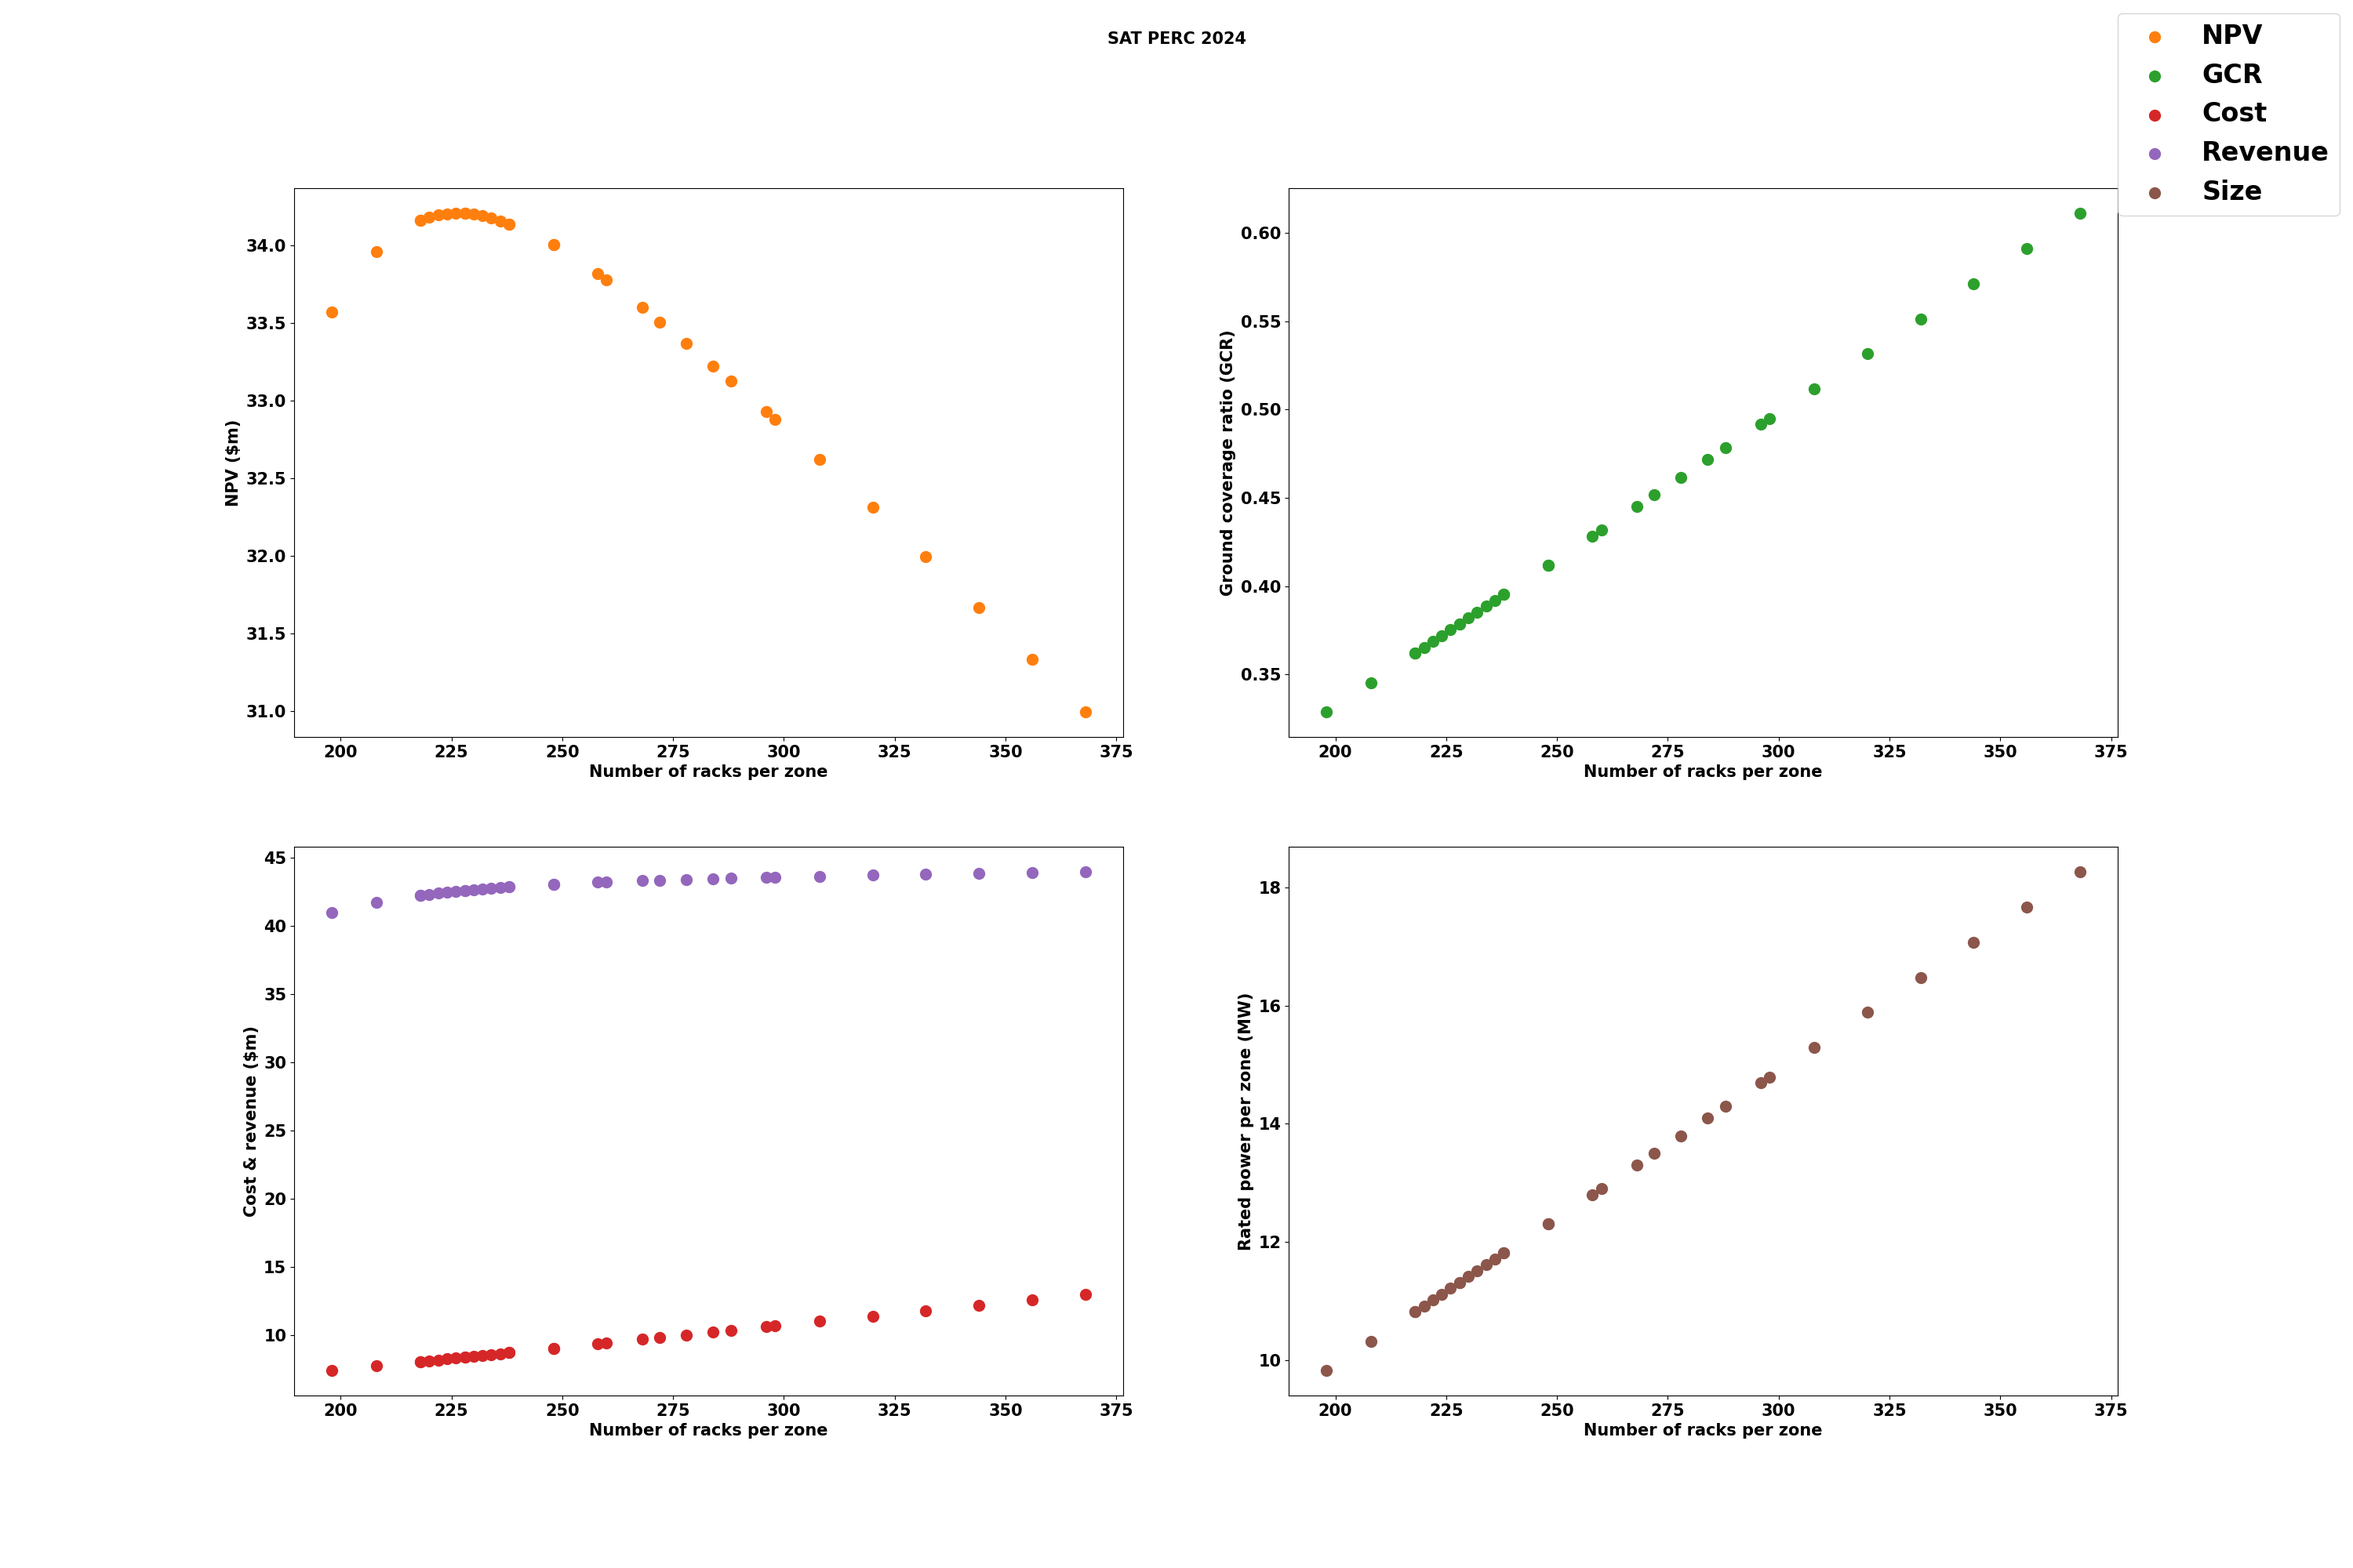
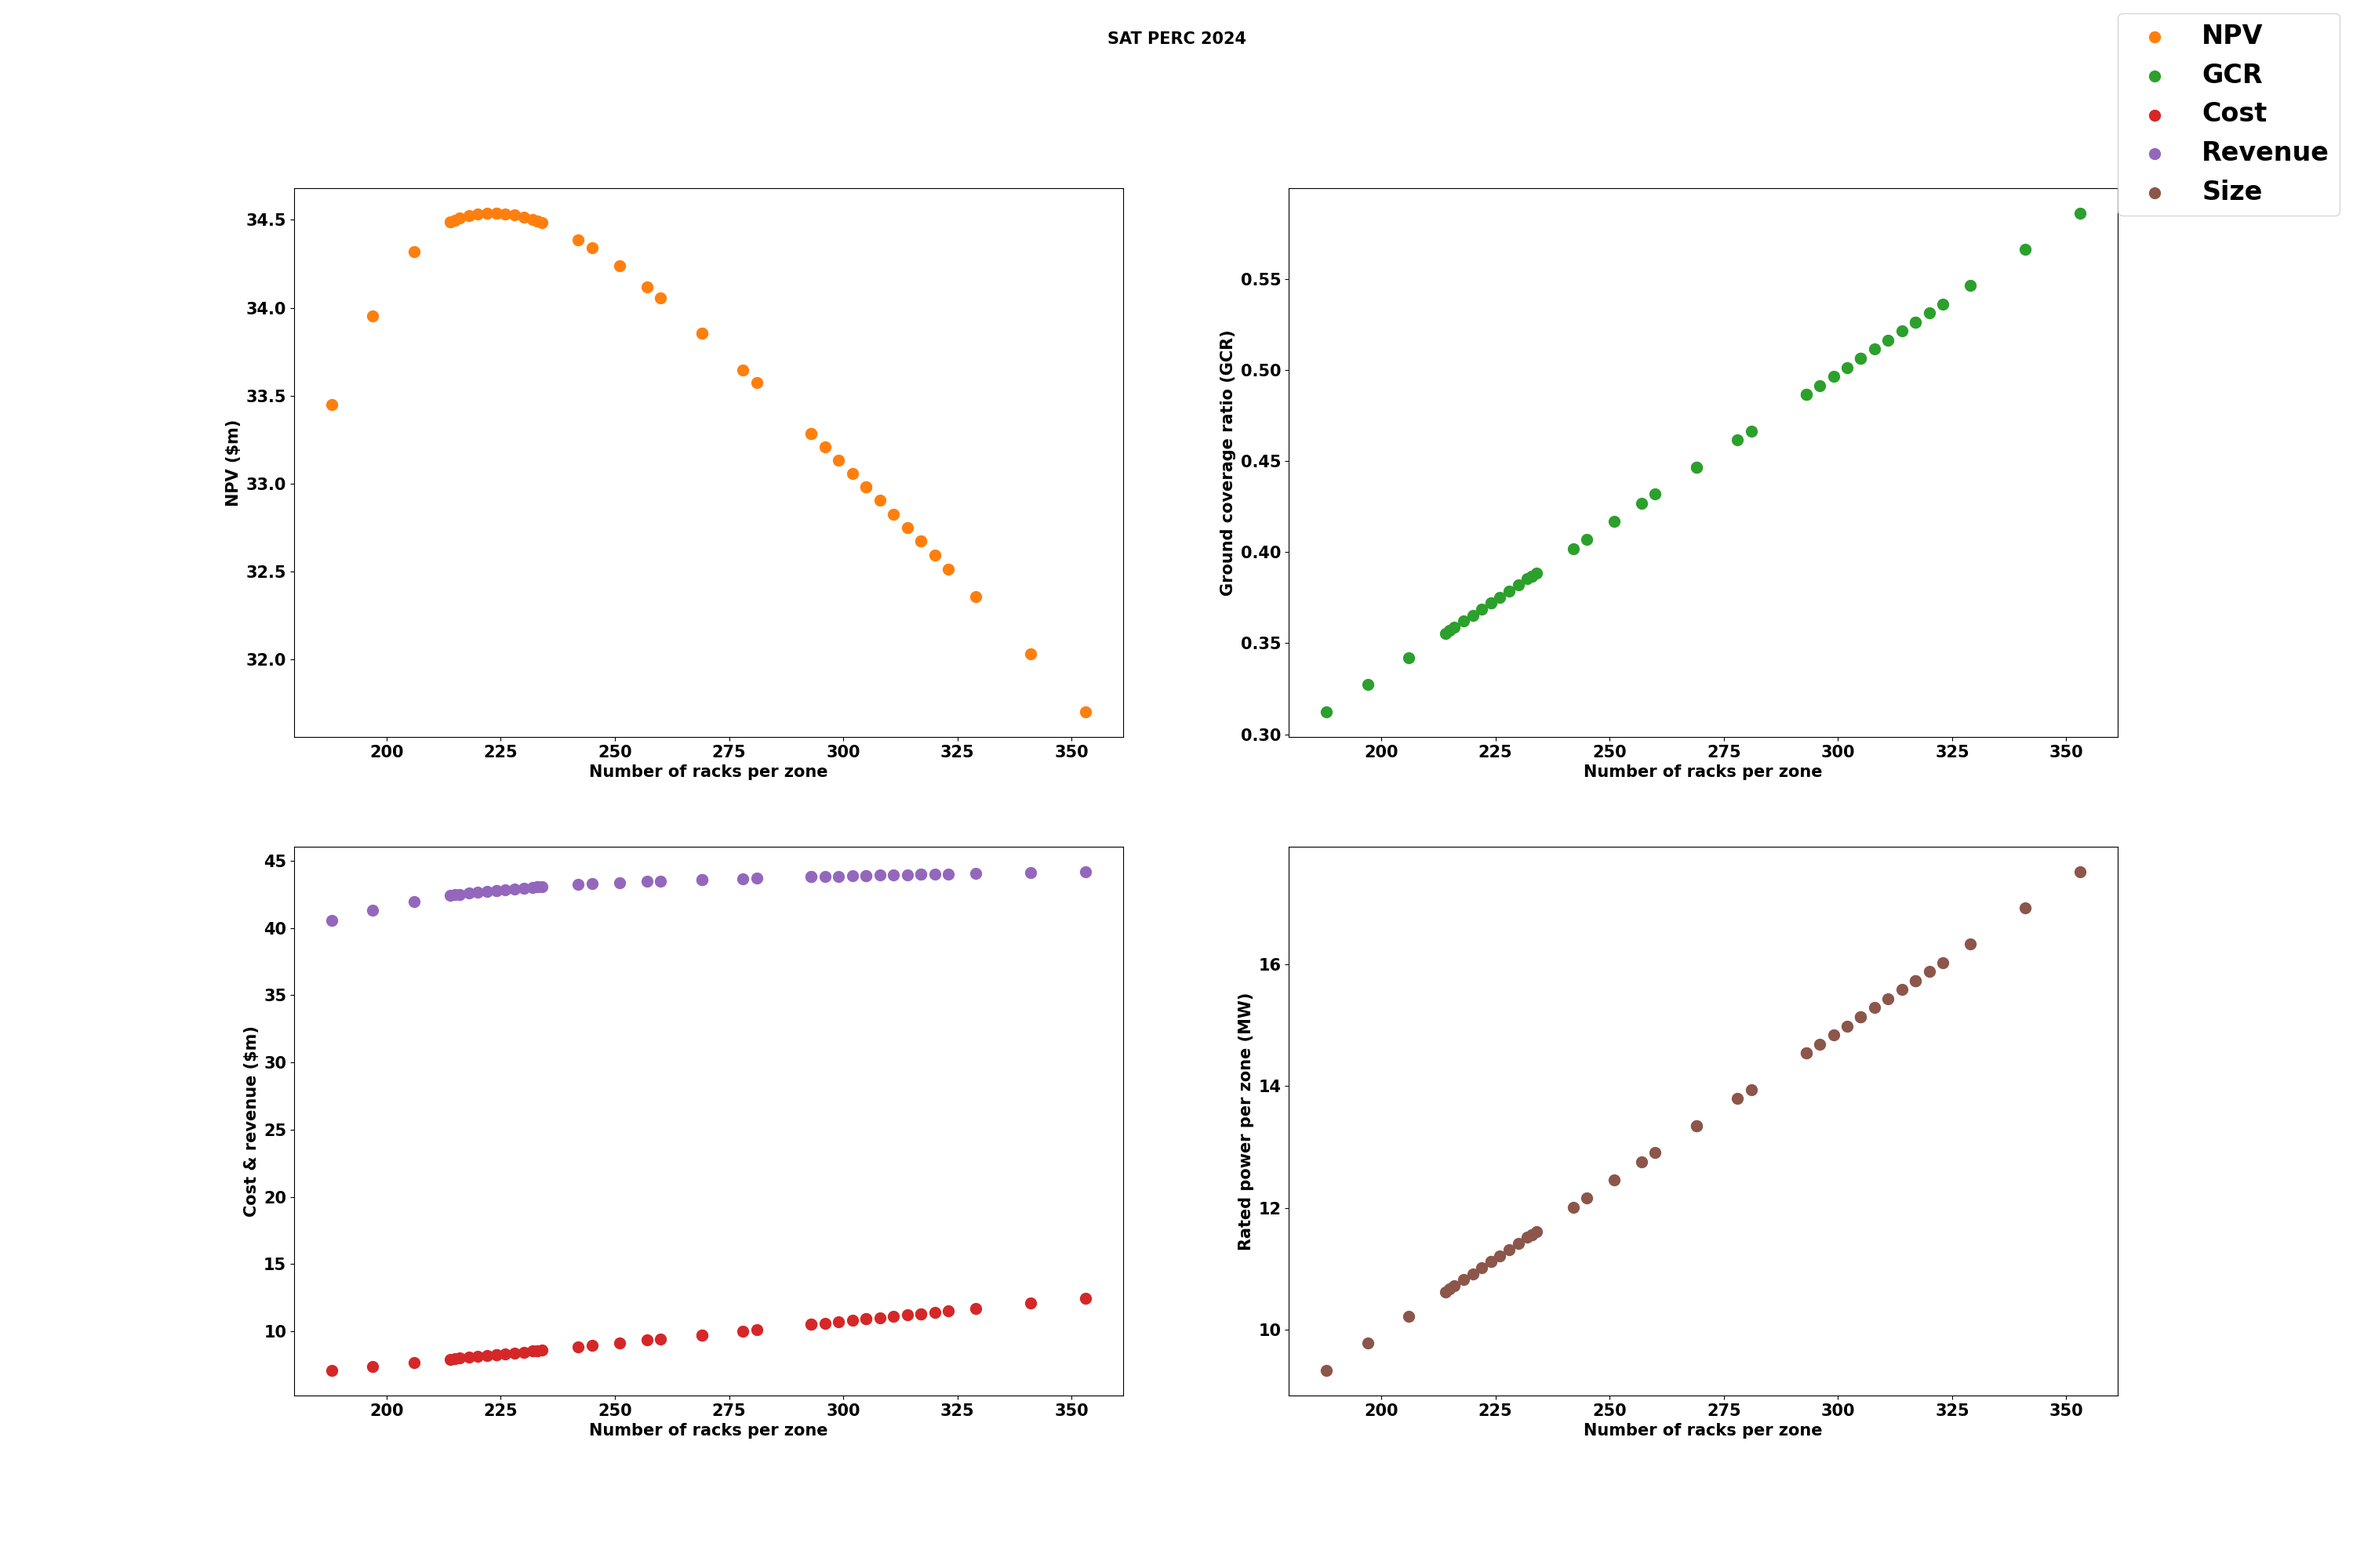
playing with weather files and sorting

diff --git a/Scripts/montecarlo_report.py b/Scripts/montecarlo_report.py
@@ -88,7 +88,7 @@ weather_simulation = weather_dnv_mod
 DCTotal = 11000  # DC size in MW
 num_of_zones = 720  # Number of smaller zones that will make up the solar farm
 zone_area = 1.4e5   # Zone Area in m2
-rack_interval_ratio = 0.04
+rack_interval_ratio = 0.01
 
 # Yield Assessment Inputs
 temp_model = 'sapm'  # choose a temperature model either Sandia: 'sapm' or PVSyst: 'pvsyst'
@@ -209,7 +209,9 @@ for scenario_tables in [scenario_tables_2024, scenario_tables_2026, scenario_tab
         install_dummy3 = install_dummy2['InstallNumber']
         Racks = install_dummy3[0]
         Modules = install_dummy3[3]
-        output_data.append([index, Racks, Modules])
+        MW_per_zone = Modules*results[5]
+        Total_GW = MW_per_zone*num_of_zones
+        output_data.append([index, Racks, Modules, MW_per_zone, Total_GW])
 
 optimised_tables = pd.DataFrame(data=output_data, columns=['scenario', 'racks', 'modules'])
 optimised_tables.set_index('scenario', inplace=True)
@@ -510,42 +512,42 @@ for analysis_year in [
 graph_data = pd.DataFrame(columns=['Year','NPV','Label'], index=[*range(0,1)])
 i = 0
 for (year, label, results) in [
-#    (2024, 'T2 PERC', results_MAV_PERC_2024),
-#    (2026, 'T2 PERC', results_MAV_PERC_2026),
-#    (2028, 'T2 PERC', results_MAV_PERC_2028),
-#    (2024, 'T1 PERC', results_SAT_PERC_2024),
-#    (2026, 'T1 PERC', results_SAT_PERC_2026),
-#    (2028, 'T1 PERC', results_SAT_PERC_2028),
-    (2024, 'T2 PERCa', results_MAV_PERCa_2024),
-#    (2026, 'T2 PERCa', results_MAV_PERCa_2026),
-#    (2028, 'T2 PERCa', results_MAV_PERCa_2028),
-    (2024, 'T1 PERCa', results_SAT_PERCa_2024),
-#    (2026, 'T1 PERCa', results_SAT_PERCa_2026),
-#    (2028, 'T1 PERCa', results_SAT_PERCa_2028),
-#    (2024, 'T2 TOP', results_MAV_TOP_2024),
-#    (2026, 'T2 TOP', results_MAV_TOP_2026),
-#    (2028, 'T2 TOP', results_MAV_TOP_2028),
-#    (2024, 'T1 TOP', results_SAT_TOP_2024),
-#    (2026, 'T1 TOP', results_SAT_TOP_2026),
-#    (2028, 'T1 TOP', results_SAT_TOP_2028),
-#    (2024, 'T2 TOPa', results_MAV_TOPa_2024),
-    (2026, 'T2 TOPa', results_MAV_TOPa_2026),
-#    (2028, 'T1 TOPa', results_MAV_TOPa_2028),
-#    (2024, 'T1 TOPa', results_SAT_TOPa_2024),
-    (2026, 'T1 TOPa', results_SAT_TOPa_2026),
-#    (2028, 'T2 TOPa', results_SAT_TOPa_2028),
-#    (2024, 'T2 HJT', results_MAV_HJT_2024),
-#    (2026, 'T2 HJT', results_MAV_HJT_2026),
-#    (2028, 'T2 HJT', results_MAV_HJT_2028),
-#    (2024, 'T1 HJT', results_SAT_HJT_2024),
-#    (2026, 'T1 HJT', results_SAT_HJT_2026),
-#    (2028, 'T1 HJT', results_SAT_HJT_2028),
-#    (2024, 'T2 HJTa', results_MAV_HJTa_2024),
-#    (2026, 'T2 HJTa', results_MAV_HJTa_2026),
-    (2028, 'T2', results_MAV_HJTa_2028),
-#    (2024, 'T1 HJTa', results_SAT_HJTa_2024),
-#    (2026, 'T1 HJTa', results_SAT_HJTa_2026),
-    (2028, 'T1', results_SAT_HJTa_2028)
+    (2024, 'MAV PERC', results_MAV_PERC_2024),
+    (2026, 'MAV PERC', results_MAV_PERC_2026),
+    (2028, 'MAV PERC', results_MAV_PERC_2028),
+    (2024, 'SAT PERC', results_SAT_PERC_2024),
+    (2026, 'SAT PERC', results_SAT_PERC_2026),
+    (2028, 'SAT PERC', results_SAT_PERC_2028),
+    (2024, 'MAV PERCa', results_MAV_PERCa_2024),
+    (2026, 'MAV PERCa', results_MAV_PERCa_2026),
+    (2028, 'MAV PERCa', results_MAV_PERCa_2028),
+    (2024, 'SAT PERCa', results_SAT_PERCa_2024),
+    (2026, 'SAT PERCa', results_SAT_PERCa_2026),
+    (2028, 'SAT PERCa', results_SAT_PERCa_2028),
+    (2024, 'MAV TOP', results_MAV_TOP_2024),
+    (2026, 'MAV TOP', results_MAV_TOP_2026),
+    (2028, 'MAV TOP', results_MAV_TOP_2028),
+    (2024, 'SAT TOP', results_SAT_TOP_2024),
+    (2026, 'SAT TOP', results_SAT_TOP_2026),
+    (2028, 'SAT TOP', results_SAT_TOP_2028),
+    (2024, 'MAV TOPa', results_MAV_TOPa_2024),
+    (2026, 'MAV TOPa', results_MAV_TOPa_2026),
+    (2028, 'MAV TOPa', results_MAV_TOPa_2028),
+    (2024, 'SAT TOPa', results_SAT_TOPa_2024),
+    (2026, 'SAT TOPa', results_SAT_TOPa_2026),
+    (2028, 'SAT TOPa', results_SAT_TOPa_2028),
+    (2024, 'MAV HJT', results_MAV_HJT_2024),
+    (2026, 'MAV HJT', results_MAV_HJT_2026),
+    (2028, 'MAV HJT', results_MAV_HJT_2028),
+    (2024, 'SAT HJT', results_SAT_HJT_2024),
+    (2026, 'SAT HJT', results_SAT_HJT_2026),
+    (2028, 'SAT HJT', results_SAT_HJT_2028),
+    (2024, 'MAV HJTa', results_MAV_HJTa_2024),
+    (2026, 'MAV HJTa', results_MAV_HJTa_2026),
+    (2028, 'MAV HJTa', results_MAV_HJTa_2028),
+    (2024, 'SAT HJTa', results_SAT_HJTa_2024),
+    (2026, 'SAT HJTa', results_SAT_HJTa_2026),
+    (2028, 'SAT HJTa', results_SAT_HJTa_2028)
     ]:
     SCENARIO_LABEL, scenario_tables_optimum, revenue, kWh_export, npv_output = results
     graph_data.loc[i,'Year'] = year
@@ -568,8 +570,12 @@ for year in [2024, 2026, 2028]:
     plt.gca().set_title('NPV for ' + str(year) + ' installation')
     plt.gca().set_xlabel('Scenario')
     plt.gca().set_ylabel('AUD Million')
+    fig_title = "NPV - " + str(year)
+    current_path = os.getcwd()
+    parent_path = os.path.dirname(current_path)
+    file_name = os.path.join(parent_path, 'OutputFigures', fig_title)
+    plt.savefig(file_name, format='png', dpi=300, bbox_inches='tight')
 
-    plt.show()
 
 
 # %%

diff --git a/Functions/optimising_functions.py b/Functions/optimising_functions.py
@@ -151,7 +151,7 @@ def optimise_layout(weather_simulation, rack_type, module_type, install_year,
     revenue_output = revenue_series[racks_per_zone_max]
     kWh_output = kWh_series[racks_per_zone_max]
     npv_output = npv[racks_per_zone_max]
-    return table_outputs, revenue_output, kWh_output, npv_output
+    return table_outputs, revenue_output, kWh_output, npv_output, module_params['STC']
 
 
 def form_new_data_tables(data_tables, scenarios):
